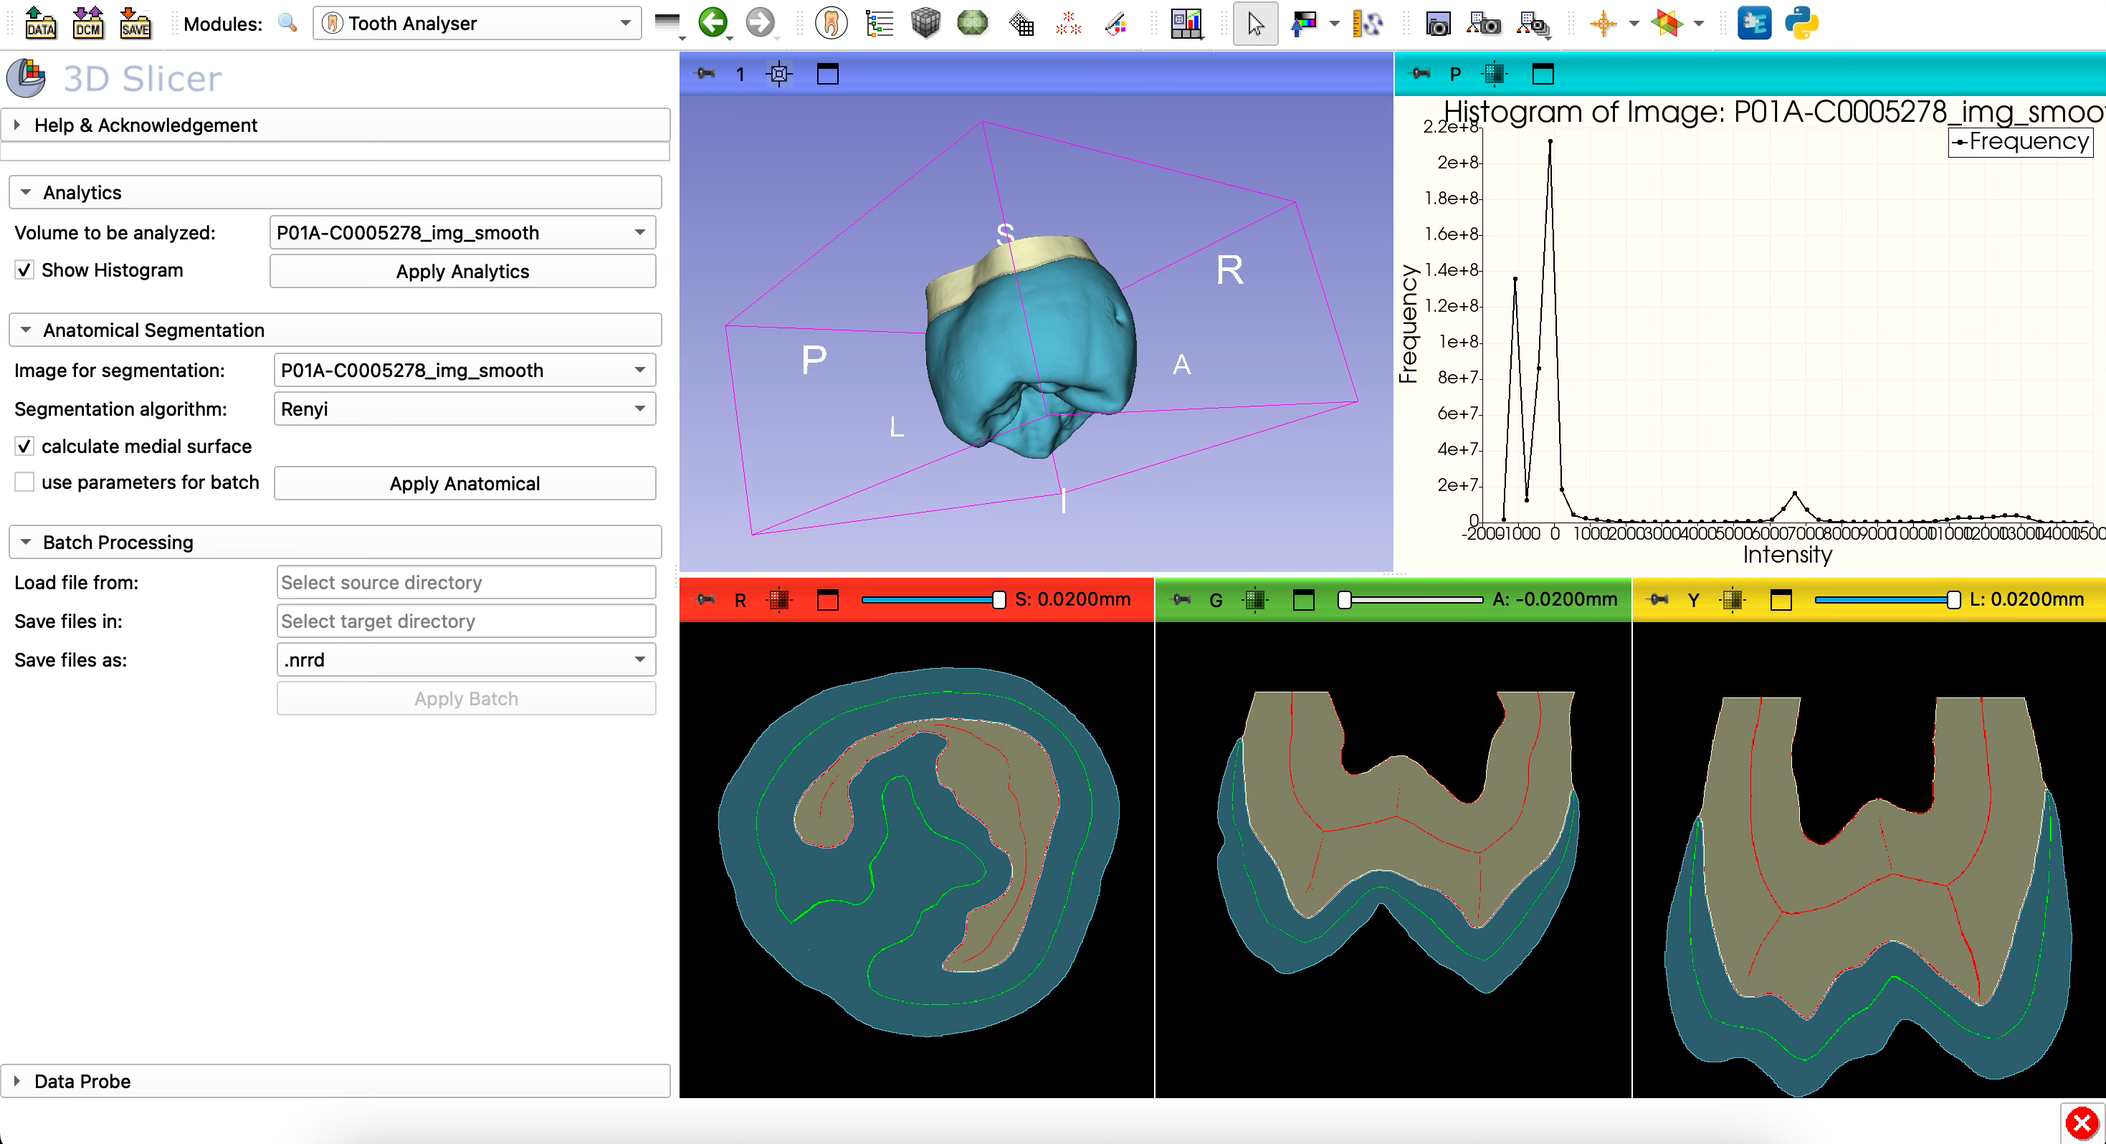
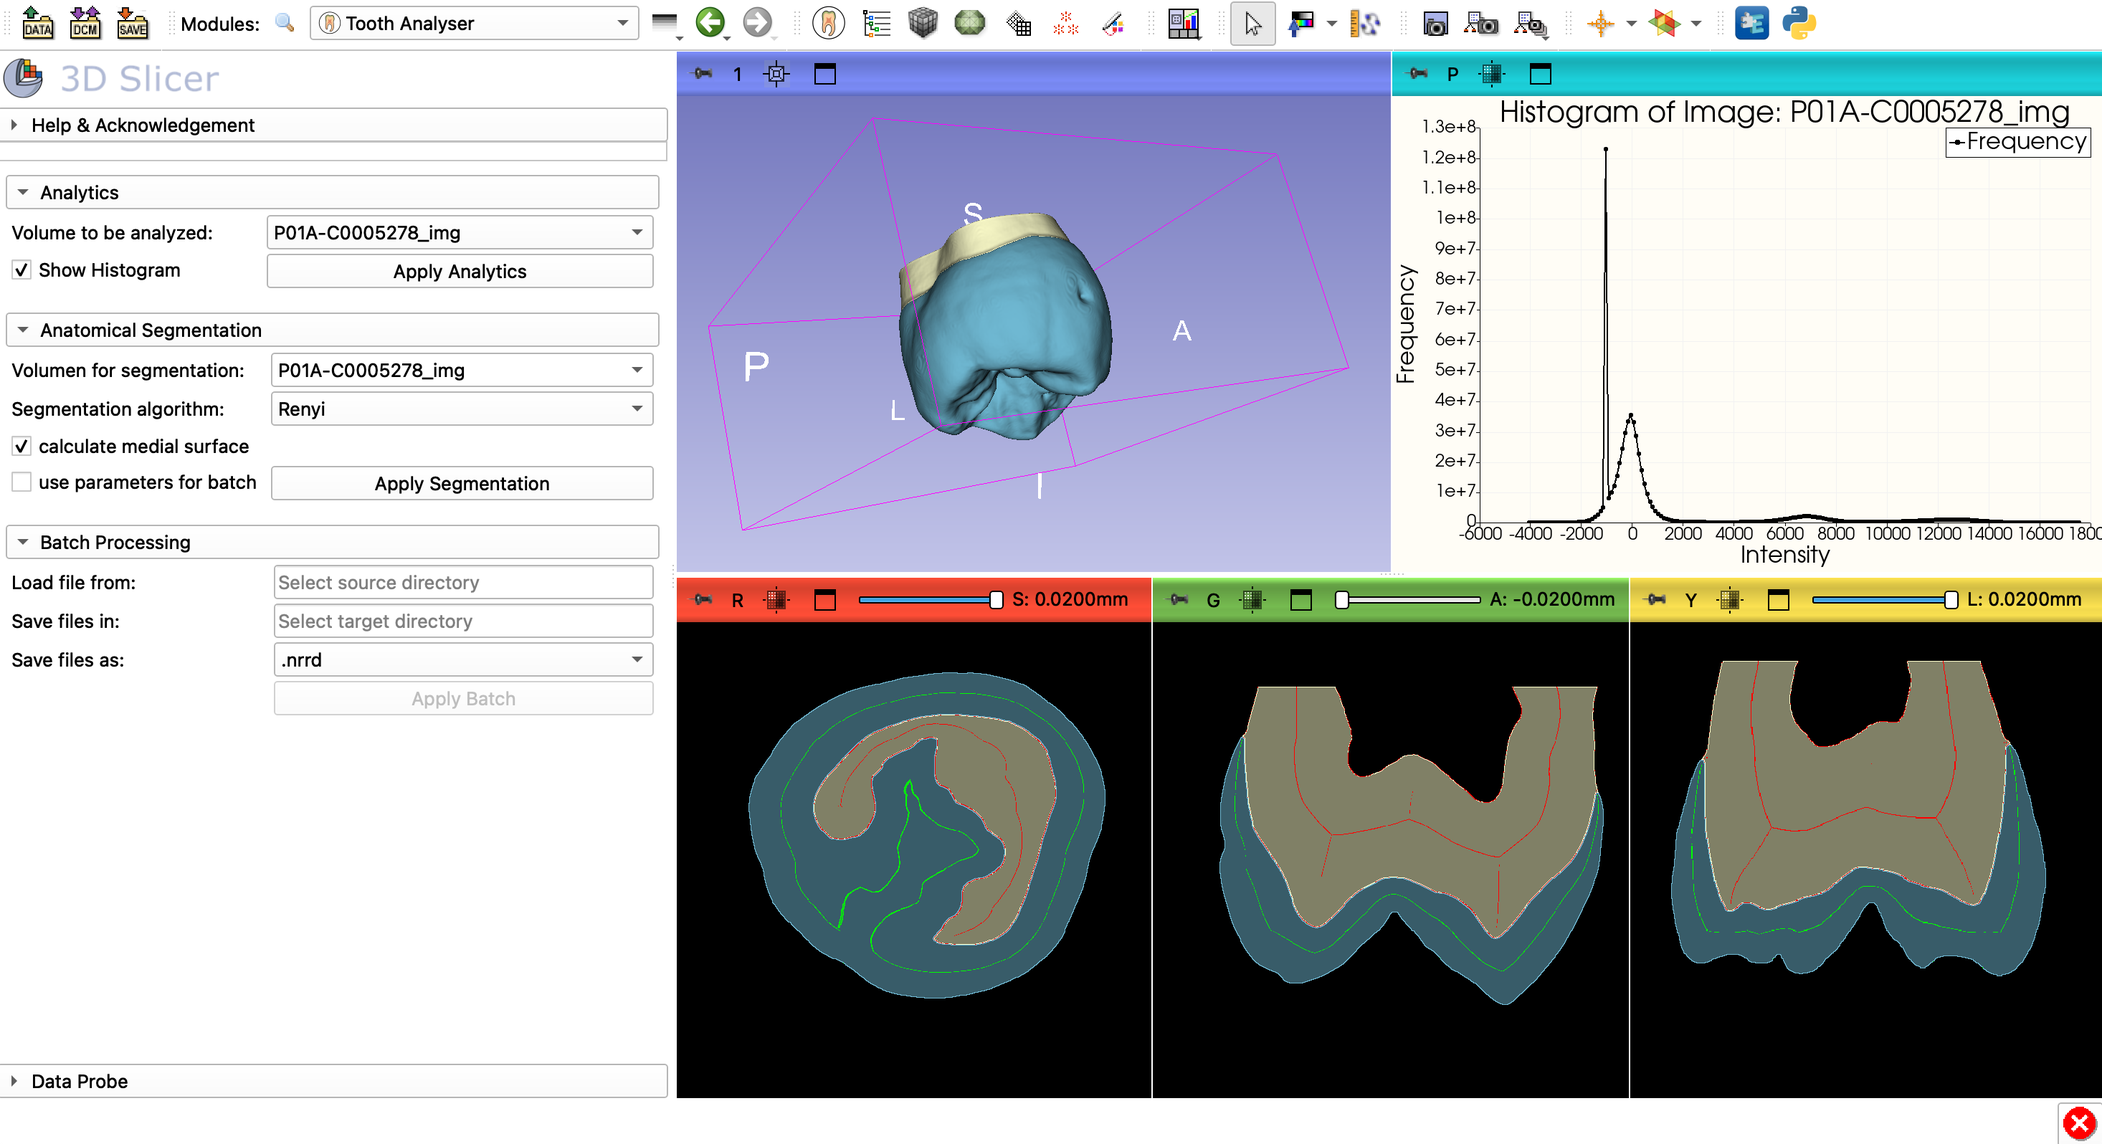
refactor

diff --git a/ToothAnalyser/ToothAnalyser.py b/ToothAnalyser/ToothAnalyser.py
@@ -34,14 +34,24 @@ class ToothAnalyser(ScriptedLoadableModule):
         self.parent.title = _("Tooth Analyser")
         self.parent.categories = [translate("qSlicerAbstractCoreModule", "Segmentation")]
         self.parent.dependencies = []  # TODO: add here list of module names that this module requires
-        self.parent.contributors = ["Lukas Konietzka (THA)", "Simon Hoffmann (THA)", "Prof. Dr. Peter Rösch (THA)"]
-        self.parent.helpText = _("""This is an example of scripted loadable module bundled in an extension. See more
-        information in <a href="https://github.com/lukaskonietzka/SlicerToothAnalyser/tree/dev">module documentation</a>.""")
-        self.parent.acknowledgementText = _("""This 3D Slicer extension (SEM) is designed for dental research. It was
-        developed to support dental caries research conducted by the Poliklinik für Zahnerhaltung und Parodontologie.
-        The clinic captures three-dimensional micro-CT images of teeth, which are stored in the Scanio ISQ format.
-        
-        \nWith this extension, you can directly and unfiltered segment three-dimensional micro-CT scans in Scanco ISQ format.""")
+        self.parent.contributors = ["Lukas Konietzka (THA)", "Simon Hofmann (THA)", "Prof. Dr. Peter Rösch (THA)", "Dr. Elias Walter (LMU)"]
+        self.parent.helpText = _("""
+            <img src="/Users/lukas/Documents/Development/SlicerToothAnalyser/Screenshots/logo.png" width="300">
+            <br>
+            This 3D Slicer extension is designed for dental research, specifically to support studies at the  Poliklinik
+            für Zahnerhaltung und Parodontologie at LMU Munich. With this extension, you can apply anatomical segmentation
+            on dental CT scans, dividing the image into the segments enamel and dentin.
+            <br>
+            If you need more information
+            check out the <a href="https://github.com/lukaskonietzka/SlicerToothAnalyser/tree/dev">module documentation</a>.
+        """)
+        self.parent.acknowledgementText = _("""The development of this extension is a collaboration between LMU Munich  
+            and the Faculty of Computer Science at the Technical University of Augsburg.
+            <br>
+            As part of a proposal by the Dental Clinic, the goal is to implement automatic detection of cavities in  
+            micro CT scans using neural networks in the future. Since identifying carious lesions is not trivial,  
+            this extension is designed to assist with anatomical segmentation of the tooth.
+        """)
 
         # Additional initialization step after application startup is complete
         slicer.app.connect("startupCompleted()", registerSampleData)
@@ -281,6 +291,7 @@ class ToothAnalyserWidget(ScriptedLoadableModuleWidget, VTKObservationMixin):
         self.ui.progressBar.setVisible(False)
         self.ui.status.setVisible(False)
         self.ui.status.enabled = False
+        self._param.anatomical.selectedAnatomicalAlgo = "Otsu"
 
     def setParameterNode(self, inputParameterNode: Optional[ToothAnalyserParameterNode]) -> None:
         """
@@ -369,10 +380,11 @@ class ToothAnalyserWidget(ScriptedLoadableModuleWidget, VTKObservationMixin):
         """
         slicer.app.processEvents()
 
-        self.ui.anatomicaCollapsible.enabled = not isVisible
-        self.ui.batchCollapsible.enabled = not isVisible
-        self.ui.analyticalCollapsible.enabled = not isVisible
         self.ui.progressBar.enabled = isVisible
+
+        self.ui.applyAnalytics.enabled = not isVisible
+        self.ui.applyAnatomical.enabled = not isVisible
+        self.ui.applyBatch.enabled = not isVisible
 
         self.ui.status.setVisible(isVisible)
         self.ui.progressBar.setVisible(isVisible)
@@ -404,7 +416,11 @@ class ToothAnalyserWidget(ScriptedLoadableModuleWidget, VTKObservationMixin):
         self._param.status = "start anatomical segmentation..."
         self.activateComputingMode(True)
         with slicer.util.tryWithErrorDisplay(_("Failed to compute results."), waitCursor=True):
-            AnatomicalSegmentationLogic.execute(param=self._param)
+            slicer.util.warningDisplay("The anatomical segmentation may take up to 17 minutes, depending on the image and your local machine.")
+            try:
+                AnatomicalSegmentationLogic.execute(param=self._param)
+            except:
+                slicer.util.errorDisplay("An error occurred while processing the image. Please note that this module is specifically designed for CT scans of teeth.")
             print("anatomical")
         self.activateComputingMode(False)
 
@@ -419,6 +435,8 @@ class ToothAnalyserWidget(ScriptedLoadableModuleWidget, VTKObservationMixin):
                 Analytics.executeAsBatch(param=self._param)
                 self.activateComputingMode(False)
             elif self._param.anatomical.useAnatomicalForBatch:
+                slicer.util.warningDisplay(
+                    "The Batch processing of the anatomical segmentation may take a lot of resources on your local machine.")
                 AnatomicalSegmentationLogic.executeAsBatch(param=self._param)
         self.activateComputingMode(False)
 
@@ -499,7 +517,7 @@ class Analytics(ToothAnalyserLogic):
 
         # create histogram data
         imageData = slicer.util.arrayFromVolume(image)
-        histogram = np.histogram(imageData, bins=50)
+        histogram = np.histogram(imageData, bins=200)
 
         # create plot
         chartNode = slicer.util.plot(
@@ -514,6 +532,7 @@ class Analytics(ToothAnalyserLogic):
         chartNode.SetXAxisTitle(axes.x)
         chartNode.SetLegendVisibility(True)
         chartNode.SetYAxisRange(0, 4e5)
+        chartNode.SetXAxisRange(0, 4e5)
         # set properties for  plot series
         plotSeries = getNode("*PlotSeries*")
         plotSeries.SetName(axes.y)
@@ -712,11 +731,11 @@ class AnatomicalSegmentationLogic(ToothAnalyserLogic):
         """
         import shutil
         if not os.path.exists(path):
-            print(f"Das Verzeichnis '{path}' existiert nicht.")
+            print(f"The directory '{path}' does not exists.")
             return
 
         if not os.path.isdir(path):
-            print(f"Der Pfad '{path}' ist kein Verzeichnis.")
+            print(f"The path '{path}' is not an directory.")
             return
 
         try:
@@ -727,7 +746,7 @@ class AnatomicalSegmentationLogic(ToothAnalyserLogic):
                 elif os.path.isdir(item_path):
                     shutil.rmtree(item_path)
         except Exception as e:
-            print(f"Fehler beim Leeren des Ordners '{path}': {e}")
+            print(f"Error while cleaning directory '{path}': {e}")
 
     @classmethod
     def createDirectory(cls, path: str, directoryName: str) -> str:
@@ -931,7 +950,7 @@ class AnatomicalSegmentationLogic(ToothAnalyserLogic):
                     currentImageName=currentImageName,
                     deleteLabelMapNodes=True)
         except:
-            pass
+            slicer.util.errorDisplay("An error occurred while processing the image. Please note that this module is specifically designed for CT scans of teeth.")
 
         stop = time.time()
         print("Processing completed in: ", f" {(stop - start) // 60:.0f} minutes and {(stop - start) % 60:.0f} seconds")
@@ -949,6 +968,12 @@ class AnatomicalSegmentationLogic(ToothAnalyserLogic):
         from ToothAnalyserLib.AnatomicalSegmentation.Segmentation import parseName, writeToothDict
 
         # create local variables for all parameters
+        if not os.path.isdir(param.batch.sourcePath):
+            slicer.util.errorDisplay("The given source path is not an directory.")
+            return
+        if not os.path.isdir(param.batch.targetPath):
+            slicer.util.errorDisplay("The given target path is not an directory.")
+            return
         sourcePath = param.batch.sourcePath
         targetPath = param.batch.targetPath
         segmentationType = param.anatomical.selectedAnatomicalAlgo

diff --git a/ToothAnalyser/ToothAnalyserLib/AnatomicalSegmentation/Segmentation.py b/ToothAnalyser/ToothAnalyserLib/AnatomicalSegmentation/Segmentation.py
@@ -493,14 +493,6 @@ def medialSurface(segment: any) -> any:
     return medial_surface
 
 
-def isSmoothed(image: Image) -> bool:
-    import numpy as np
-    array = sitk.GetArrayFromImage(image)
-    std_dev = np.std(array)
-    print(f"Standardabweichung des Bildes: {std_dev}")
-    return 3200.00 > std_dev > 3100.00
-
-
 # ----- Pipeline methods ----- #
 def loadImage(path: str) -> tuple[Image, str]:
     """
@@ -526,6 +518,18 @@ def loadImage(path: str) -> tuple[Image, str]:
     stop = time.time()
     print("img: Done ", f" {(stop - start) // 60:.0f}:{(stop - start) % 60:.0f} minutes")
     return img, name
+
+def isSmoothed(image: Image) -> bool:
+    """
+    This methode returns true if the given image is already smoothed
+    @param image: the image to be checked
+    @return true if the given image is smoothed
+    """
+    import numpy as np
+    array = sitk.GetArrayFromImage(image)
+    std_dev = np.std(array)
+    print(f"Standardabweichung des Bildes: {std_dev}")
+    return 3200.00 > std_dev > 3100.00
 
 def smoothImage(img: Image) -> Image:
     """

diff --git a/README.md b/README.md
@@ -1,115 +1,112 @@
-![Screenshot of the application](./Screenshots/logoToothAnalyser.png)
-This 3D Slicer extension (SEM) is for for dental research, specifically to support studies on dental caries at the
-*Poliklinik für Zahnerhaltung und Parodontologie* at the LMU in Munich. The clinic captures 3D micro-CT images of teeth, which are stored
-in the Scanco ISQ format.
+![Screenshot of the application](Screenshots/logo.png)
 
-With this extension, you can directly segment 3D micro-CT scans in the Scanco ISQ format without any
-filtering.
+This 3D Slicer extension is designed for dental research, specifically to support studies at the  
+*Poliklinik für Zahnerhaltung und Parodontologie* at LMU Munich.
 
-## Table of contents
-- [1. Introduction and purpose](#1-introduction-and-purpose)
+With this extension, you can apply anatomical segmentation on dental CT scans, dividing the image into  
+the segments enamel and dentin.
+
+## Table of Contents
+- [1. Introduction and Purpose](#1-introduction-and-purpose)
 - [2. Installation](#2-installation)
-- [3. Quick start guide](#3-quick-start-guide)
+- [3. Quick Start Guide](#3-quick-start-guide)
 - [4. Tutorials](#4-tutorials)
-- [5. Explanation](#5-explanations)
-- [6. Reference Guid (Developers)](#6reference-guid-developers)
-- [7. Visualize and save results](#7-visualize-and-save-results)
+- [5. Explanation](#5-explanation)
+- [6. Reference Guide (Developers)](#6-reference-guide-developers)
+- [7. Visualize and Save Results](#7-visualize-and-save-results)
 - [8. Sample Data](#8-sample-data)
-- [9. Contributors and Organisation](#9-contributors-and-organisation)
+- [9. Contributors and Organisation](#9-contributors-and-organization)
 
 ## 1. Introduction and Purpose
-As part of a proposal by the Dental Clinic, the goal is to implement an automatic detection of cavities on
-micro-CT images in the future using neural networks. Since identifying carious lesions is not trivial, this
-extension is designed to assist with the anatomical segmentation of the tooth.
+As part of a proposal by the Dental Clinic, the goal is to implement automatic detection of cavities in  
+micro-CT images using neural networks in the future. Since identifying carious lesions is not trivial,  
+this extension is designed to assist with anatomical segmentation of the tooth.
 
-![Screenshot of the application](/Screenshots/fullView.png)
+![Screenshot of the application](/Screenshots/fullView.png)  
 *Figure 1: Full view of the Tooth Analyser extension.*
 
 ## 2. Installation
-To install the Extension simply follow the steps below in the right order.
-1. Download and install a latest stable version of 3D Slicer for your operating system (https://download.slicer.org).
-2. Start 3D Slicer application, open the Extension Manager (menu: View / Extension manager)
-3. Search for the Extension _ToothAnalyser_ and install it via the _INSTALL_ button
+To install the extension, follow the steps below in the correct order:
+1. Download and install the latest stable version of 3D Slicer for your operating system:  
+   [https://download.slicer.org](https://download.slicer.org).
+2. Start the 3D Slicer application and open the Extension Manager (Menu: **View → Extension Manager**).
+3. Search for the extension _ToothAnalyser_ and install it via the **INSTALL** button.
 
-## 3. Quick start guide
-To use the Tooth Analyser quickly and correctly, follow the steps below:
+## 3. Quick Start Guide
+To use the Tooth Analyser efficiently, follow these steps:
 
 - Start 3D Slicer.  
-- Load a CT image using the import function of the 3D Slicer core application (Menu: Data). The image does not need to be filtered.  
-- Switch to the Tooth Analyser module (Modules: Segmentation/Tooth Analyser).  
-- In the _Anatomical Segmentation_ section, select the CT image you want to segment.  
-- Check the box _calculate medial surface_ if medial surfaces should be calculated.
-- Start the algorithm by clicking the _Apply Anatomical_ button.
-- Now the cursor enter waiting mode and a progress bar appears on the bottom.
+- Load a CT image using the import function of the 3D Slicer core application (**Menu: Data**). The image does not need filtering.  
+- Switch to the Tooth Analyser module (**Modules: Segmentation → Tooth Analyser**).  
+- In the **Anatomical Segmentation** section, select the CT image you want to segment.  
+- Check the box **Calculate Medial Surface** if medial surfaces should be calculated.  
+- Start the algorithm by clicking the **Apply Anatomical** button.  
+- The cursor will switch to waiting mode, and a progress bar will appear at the bottom.  
 
-⚠ **Notice**: The algorithm, including filtering and medial surface calculation. In the worst case
+⚠ **Notice**: The algorithm includes filtering and medial surface calculation. In the worst case  
 (large image, medial flattening, filtering), the algorithm can take up to 17 minutes.
 
 ## 4. Tutorials
 This chapter provides a detailed description of the parameter settings and capabilities of the Tooth Analyser.  
-The extension is divided into several functions, each of which has been kept separate. As a result, they can also
-be executed independently of one another. This chapter covers all components and explains them in detail.
+The extension is divided into several functions, each of which can be executed independently.  
+This chapter covers all components and explains them in detail.
 
-To start a Tutorial, follow this Link:
-[Start a Tutorial](doc/Tutorial.md)
+To start a tutorial, follow this link:  
+[Start a Tutorial](Documentation/Tutorial.md)
 
-## 5. Explanations
-This chapter provides a detailed introduction to the functionality of the various features of the
-ToothAnalyzer. The focus is on the procedure itself rather than the technical implementation.
-For more details, we refer to the documentation.
+## 5. Explanation
+This chapter provides a detailed introduction to the functionality of the various features of the  
+Tooth Analyser. The focus is on the procedure itself rather than the technical implementation.  
+For more details, refer to the documentation.
 
-[check out the Explanation](doc/Explanation.md)
+[Check out the Explanation](Documentation/Explanation.md)
 
-## 6.Reference Guid (Developers)
-This section goes into great detail and provides a technical introduction to the implementation.  
-For all developers who want to extend or understand this module, this chapter is particularly relevant.  
-For more details, we also refer to the documentation.
+## 6. Reference Guide (Developers)
+This section provides a technical introduction to the implementation.  
+For developers who want to extend or understand this module, this chapter is particularly relevant.  
+For more details, refer to the documentation.
 
-[Check out the ReferenceGuide](doc/ReferenceGuide.md)
+[Check out the Reference Guide](Documentation/ReferenceGuide.md)
 
-## 7. Visualize and save results
-When the algorithm is finished, the results are automatically loaded into the Slicer scene, so they are immediately accessible.  
-However, you can also perform more detailed analyses with this segmentation. Follow these steps:
+## 7. Visualize and Save Results
+When the algorithm is finished, the results are automatically loaded into the Slicer scene,  
+making them immediately accessible. However, you can also perform more detailed analyses with this segmentation.
 
 **Single Process:**
-- Open the Data module (Modules: Data)  
-- Toggle the desired segments on and off using the hierarchy
-- overlap other images
-- rename the segmentation
-- ...
-- Save your results via the menu (Menu: Save)
+- Open the **Data** module (**Modules: Data**)  
+- Toggle the desired segments on and off using the hierarchy  
+- Overlap other images  
+- Rename the segmentation  
+- Save your results via the menu (**Menu: Save**)  
 
-**Batch process:**
-- load the segmentation via the menu (Menu: Data)
-- load the created label images as segmentation
-- if an 3D model is necessary you can create one via the Segment Editor (Modul: Segment Editor)
+**Batch Process:**
+- Load the segmentation via the menu (**Menu: Data**)  
+- Load the created label images as segmentation  
+- If a 3D model is necessary, create one via the **Segment Editor** module (**Modules: Segment Editor**)  
 
-![Screenshot of the application](./Screenshots/result.gif) *Figure 2: Result view in the module Data*
+![Screenshot of the application](./Screenshots/result.gif)  
+*Figure 2: Result view in the module Data.*
 
 ## 8. Sample Data
-The module includes sample data, primarily used for testing the module.  
+The module includes sample data primarily for testing purposes.  
 However, they can also be used to gain initial experience with the module.  
-The sample data ensures that the module can be used by anyone.  
+The sample data ensures that the module is accessible to everyone.
 
 The sample images are micro-CT scans provided as open-source by the  
-Poliklinik für Zahnerhaltung und Parodontologie. You can find the sample files
+*Poliklinik für Zahnerhaltung und Parodontologie*. You can find the sample files  
 under the assets in the current release.
 
-You can download sample data here: [Download sample data](https://github.com/lukaskonietzka/ToothAnalyserSampleData/releases/download/v1.0.0/P01A-C0005278.nii.gz)
+You can download sample data here:  
+[Download Sample Data](https://github.com/lukaskonietzka/ToothAnalyserSampleData/releases/download/v1.0.0/P01A-C0005278.nii.gz)
 
-⚠ **Notice**: The Tooth Analyzer was specifically developed for CT scans  
-with tooth structures, which is why other types of CT scans may result in errors. 
+⚠ **Notice**: The Tooth Analyser was specifically developed for CT scans  
+with tooth structures, meaning other types of CT scans may result in errors.
 
-## 9. Contributors and Organisation
-The development of this extension is a collaboration between LMU Munich and the Faculty of Computer Science at the
-Technical University of Augsburg.
+## 9. Contributors and Organization
+The development of this extension is a collaboration between LMU Munich  
+and the Faculty of Computer Science at the Technical University of Augsburg.
 
-- Lukas Konietzka _(THA)_
-- Simon Hofmann _(THA)_
-- Dr. med. Elias Walter _(LMU)_
-- Prof. Dr. Peter Rösch _(THA)_
-
-
-
-
-
+- **Lukas Konietzka** _(THA)_  
+- **Simon Hofmann** _(THA)_  
+- **Dr. med. Elias Walter** _(LMU)_  
+- **Prof. Dr. Peter Rösch** _(THA)_  
